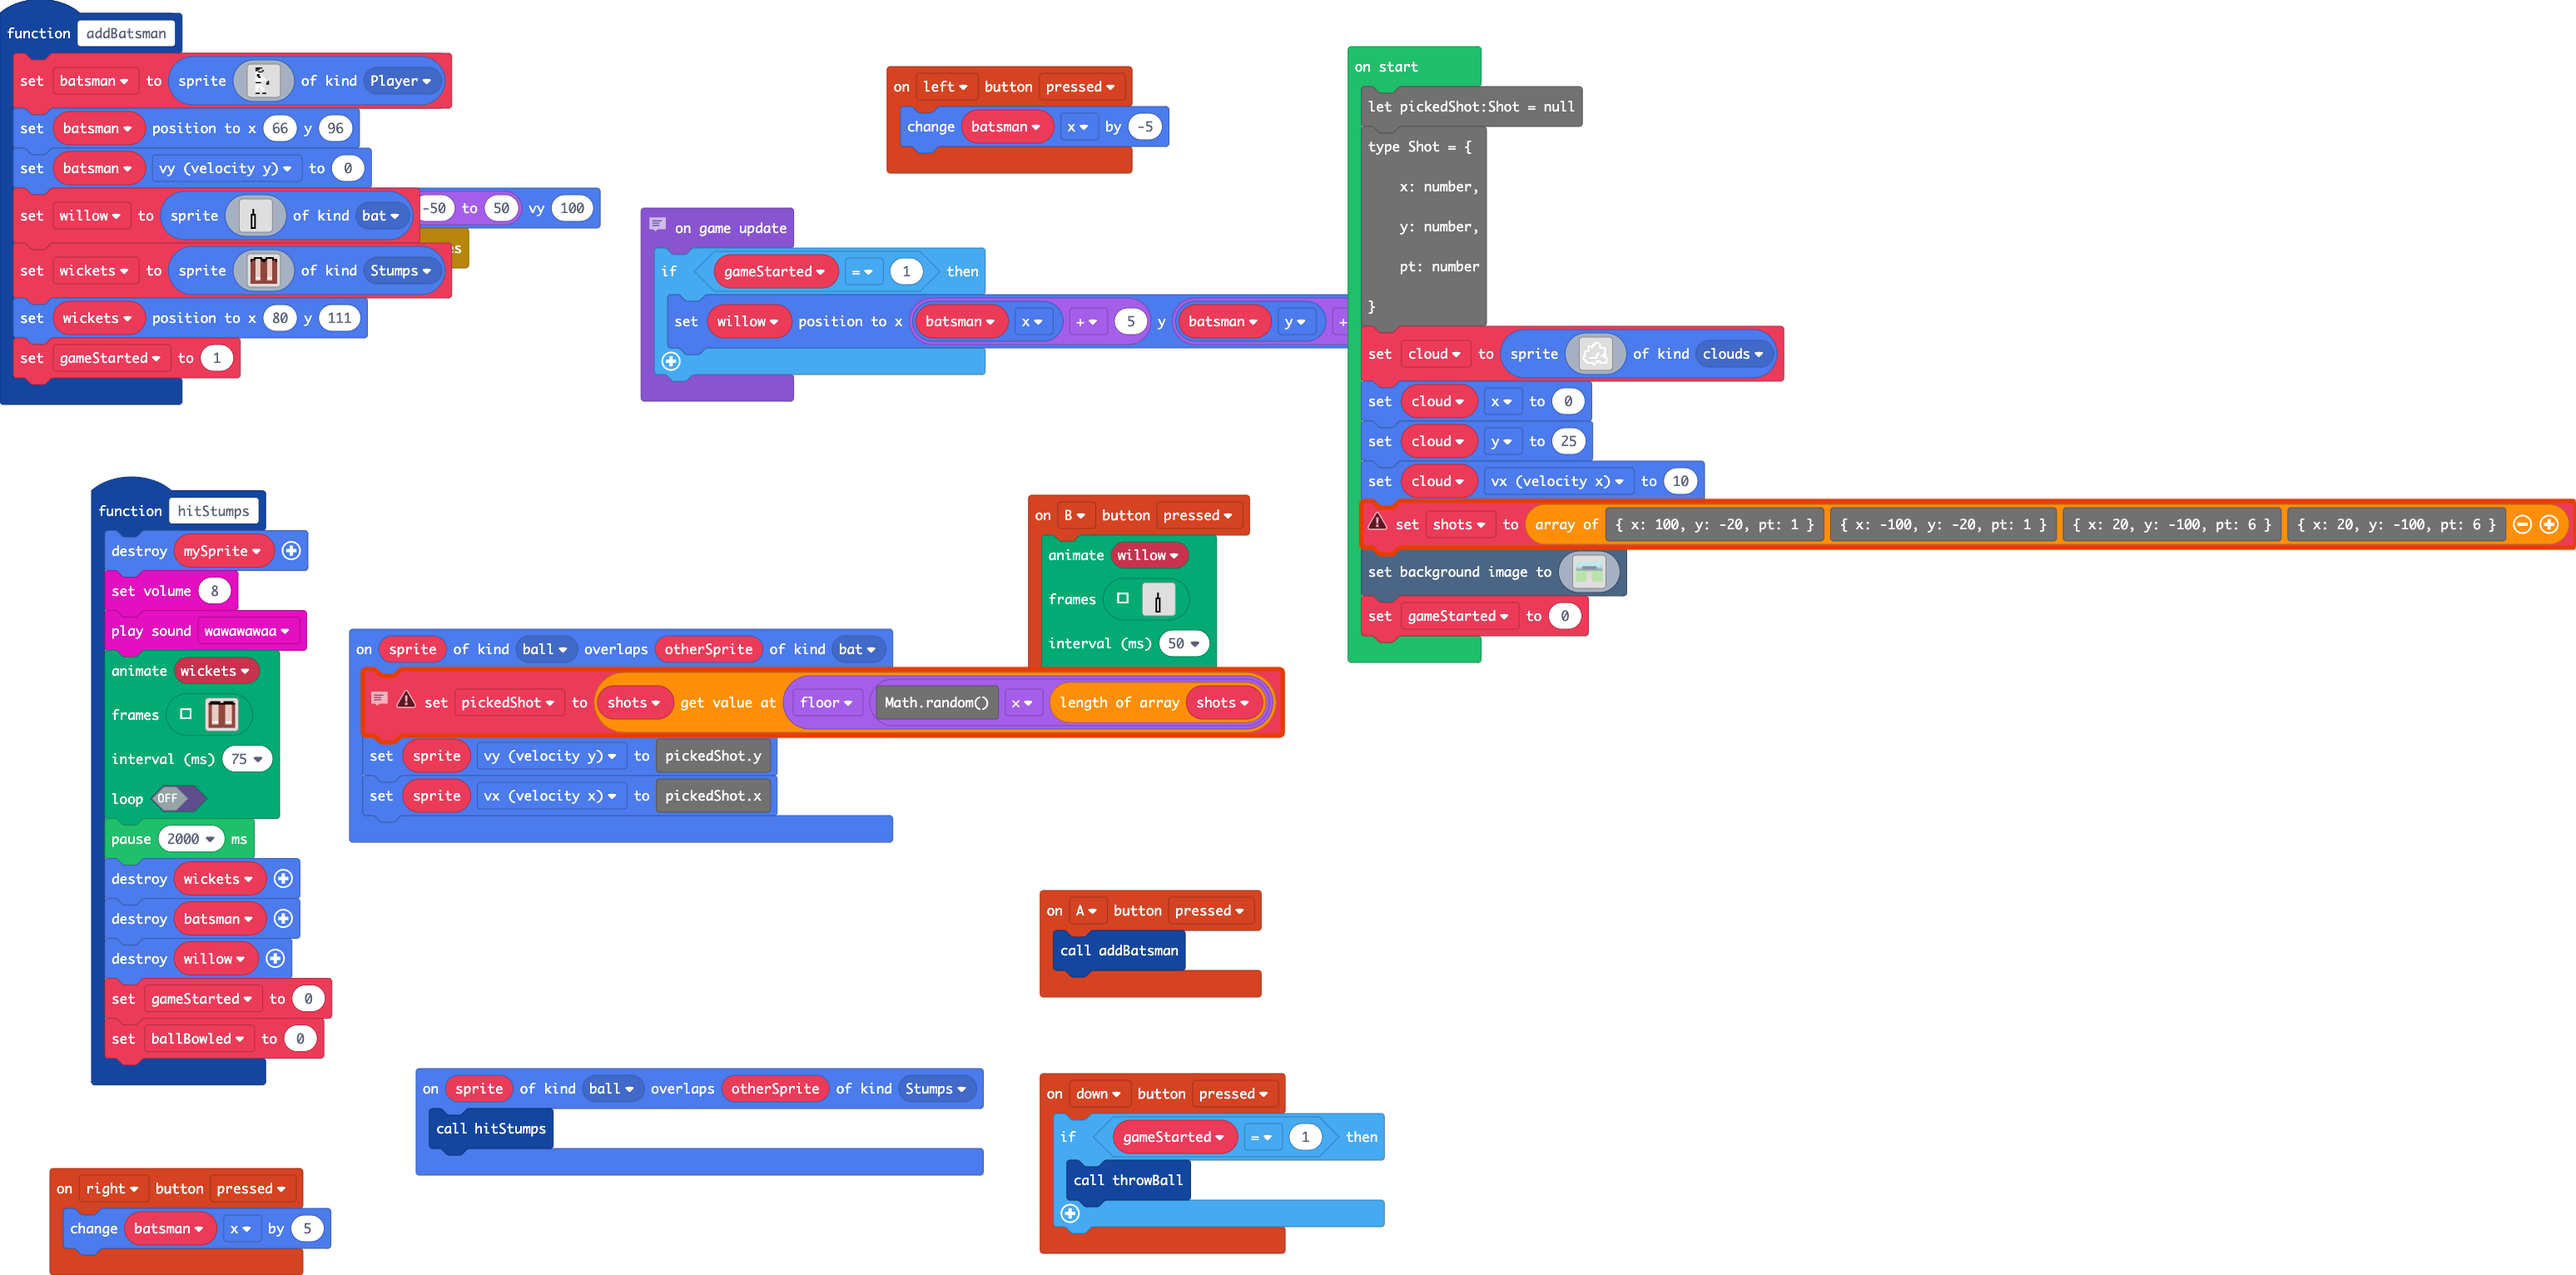
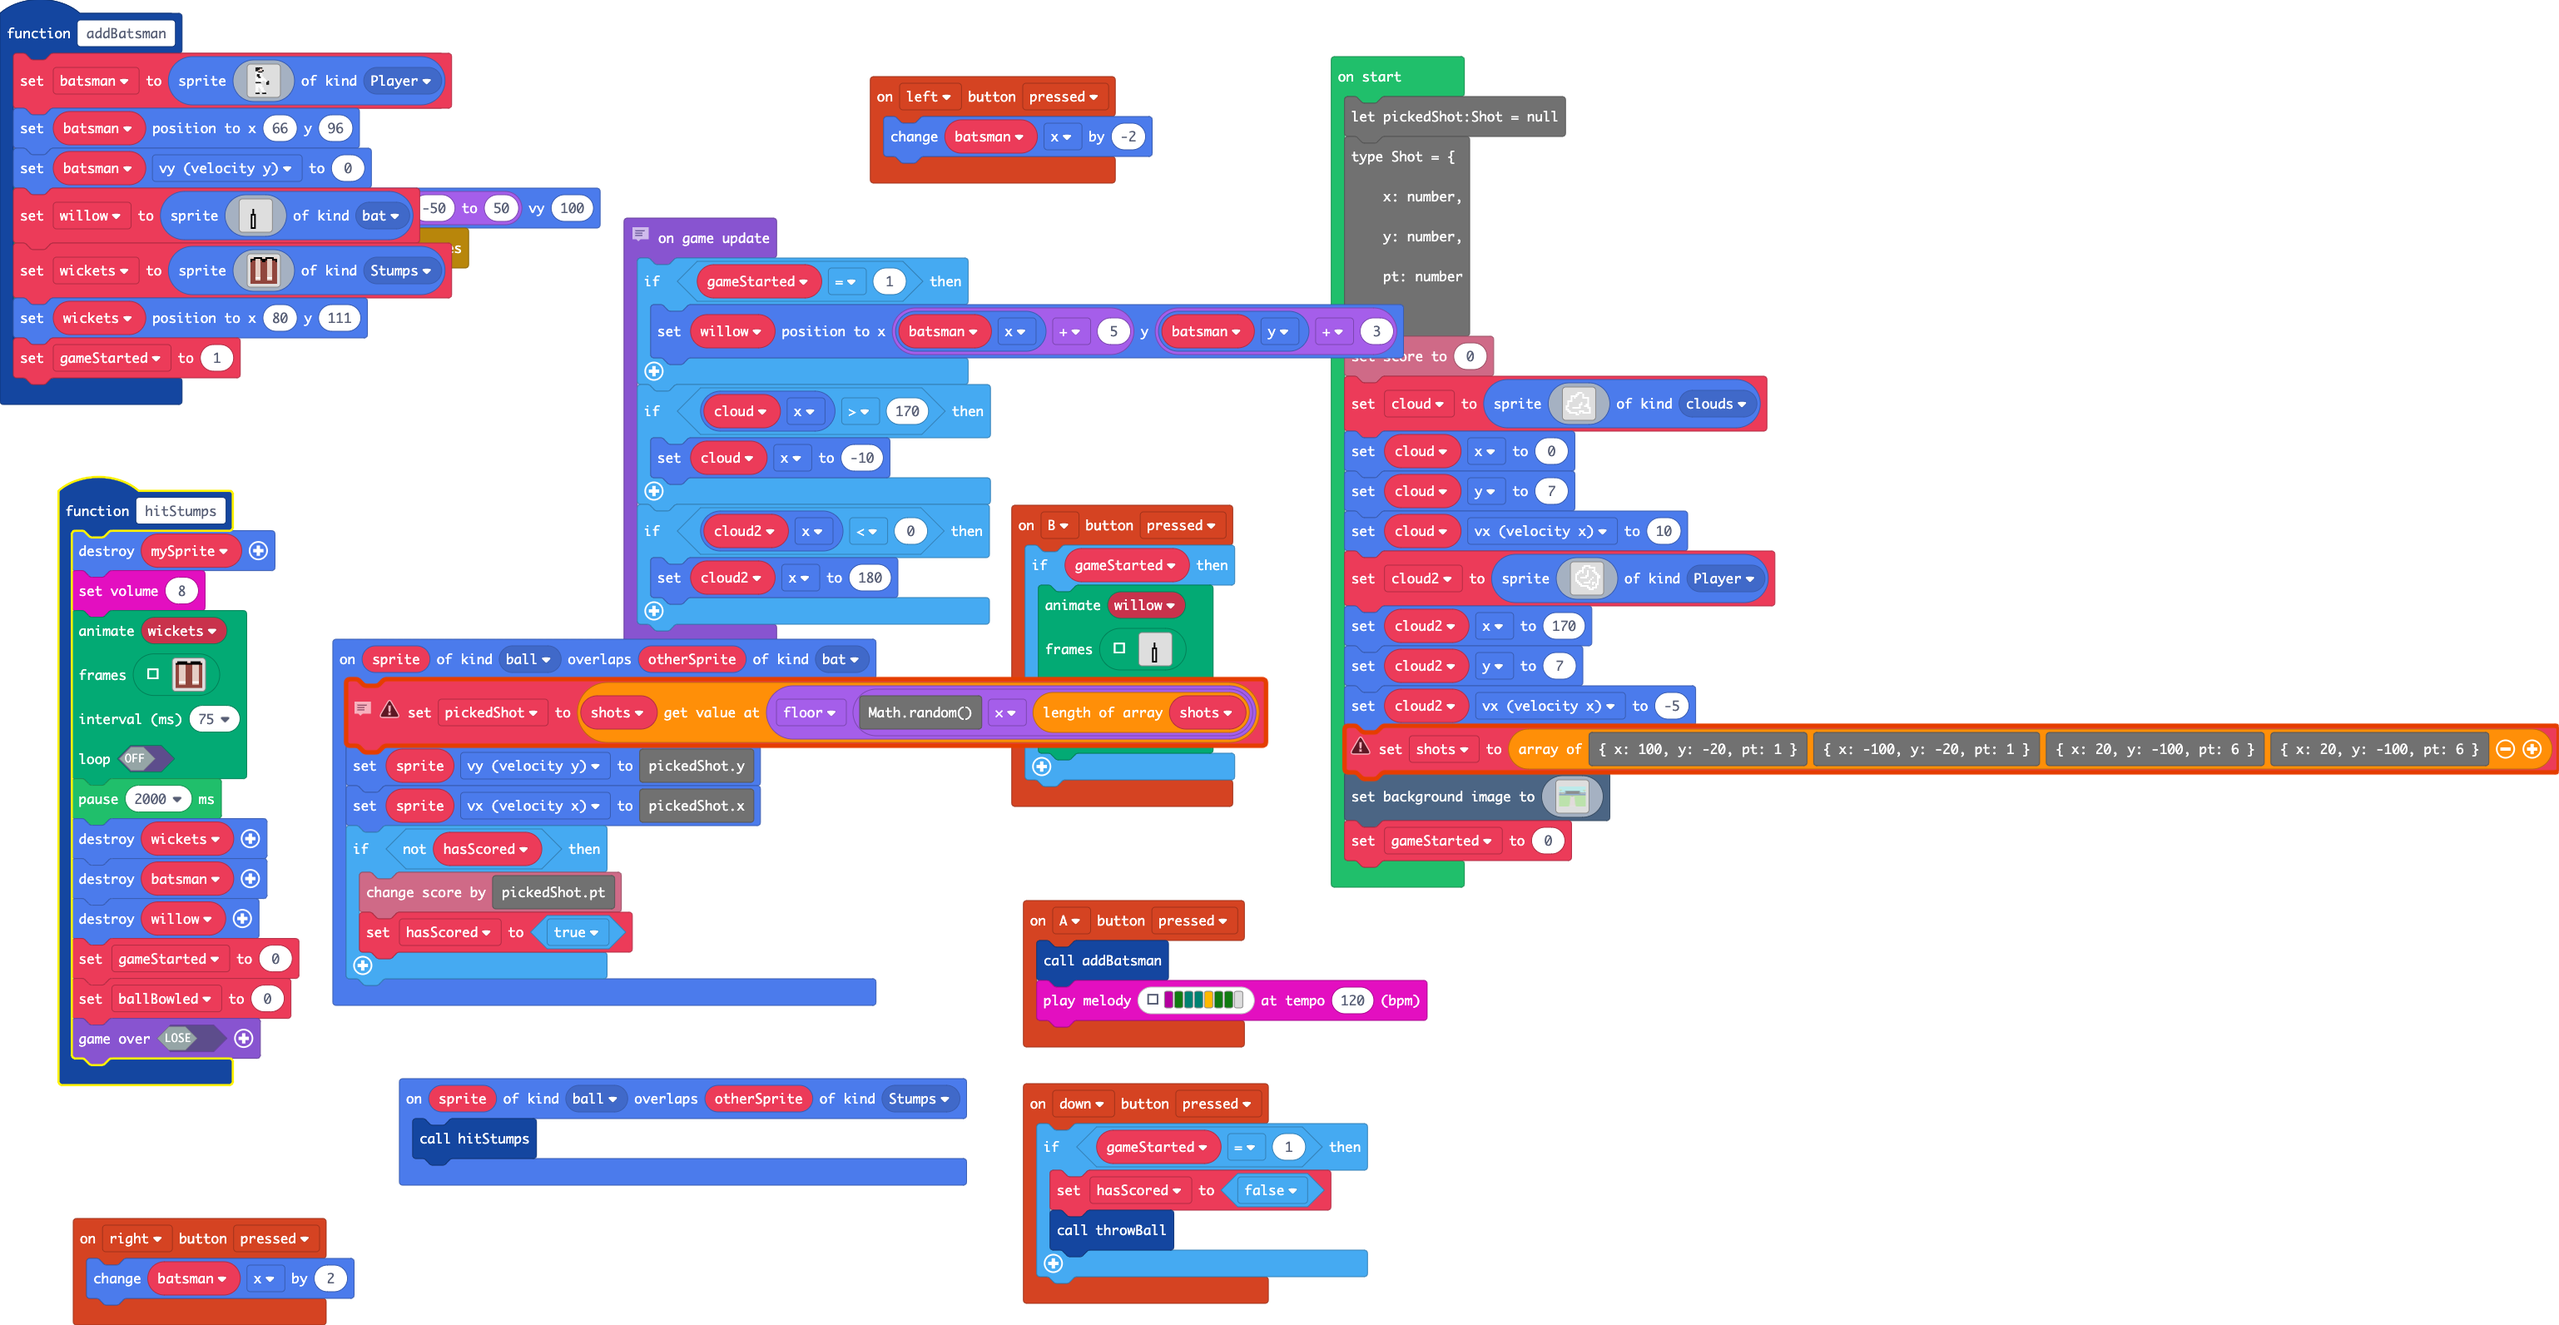
ver 1

diff --git a/main.ts b/main.ts
@@ -23,10 +23,11 @@ function throwBall () {
     }
 }
 controller.left.onEvent(ControllerButtonEvent.Pressed, function () {
-    batsman.x += -5
+    batsman.x += -2
 })
 controller.down.onEvent(ControllerButtonEvent.Pressed, function () {
     if (gameStarted == 1) {
+        hasScored = false
         throwBall()
     }
 })
@@ -38,116 +39,122 @@ sprites.onOverlap(SpriteKind.ball, SpriteKind.bat, function (sprite, otherSprite
     pickedShot = shots[Math.floor(Math.random() * shots.length)]
     sprite.vy = pickedShot.y
     sprite.vx = pickedShot.x
+    if (!(hasScored)) {
+        info.changeScoreBy(pickedShot.pt)
+        hasScored = true
+    }
 })
 controller.B.onEvent(ControllerButtonEvent.Pressed, function () {
-    animation.runImageAnimation(
-    willow,
-    [img`
-        . . . . . . . . . . . . . . . .
-        . . . . . . . . . . . . . . . .
-        . . . . . . . . . . . . . . . .
-        . . . . . . . . . . . . . . . .
-        . . . . . . . f . . . . . . . .
-        . . . . . . . f . . . . . . . .
-        . . . . . . . f . . . . . . . .
-        . . . . . . f f f . . . . . . .
-        . . . . . . f 1 f . . . . . . .
-        . . . . . . f 1 f . . . . . . .
-        . . . . . . f 1 f . . . . . . .
-        . . . . . . f 1 f . . . . . . .
-        . . . . . . f 1 f . . . . . . .
-        . . . . . . f 1 f . . . . . . .
-        . . . . . . f 1 f . . . . . . .
-        . . . . . . f f f . . . . . . .
+    if (gameStarted) {
+        animation.runImageAnimation(
+        willow,
+        [img`
+            . . . . . . . . . . . . . . . .
+            . . . . . . . . . . . . . . . .
+            . . . . . . . . . . . . . . . .
+            . . . . . . . . . . . . . . . .
+            . . . . . . . f . . . . . . . .
+            . . . . . . . f . . . . . . . .
+            . . . . . . . f . . . . . . . .
+            . . . . . . f f f . . . . . . .
+            . . . . . . f 1 f . . . . . . .
+            . . . . . . f 1 f . . . . . . .
+            . . . . . . f 1 f . . . . . . .
+            . . . . . . f 1 f . . . . . . .
+            . . . . . . f 1 f . . . . . . .
+            . . . . . . f 1 f . . . . . . .
+            . . . . . . f 1 f . . . . . . .
+            . . . . . . f f f . . . . . . .
   `,img`
-        . . . . . . . . . . . . . . . .
-        . . . . . . . . . . . . . . . .
-        . . . . . . . . . . . . . . . .
-        . . . . . . . . . . . . . . . .
-        . . . . . . . . . . . . . . . .
-        . . . . . f . . . . . . . . . .
-        . . . . . . f . . . . . . . . .
-        . . . . . . . f . f . . . . . .
-        . . . . . . . . f 1 f . . . . .
-        . . . . . . . f 1 1 1 f f . . .
-        . . . . . . . f 1 1 1 1 1 f . .
-        . . . . . . . . f 1 1 1 1 1 f .
-        . . . . . . . . . f 1 1 1 1 1 f
-        . . . . . . . . . . f 1 1 1 1 f
-        . . . . . . . . . . . f 1 1 f .
-        . . . . . . . . . . . . f f . .
+            . . . . . . . . . . . . . . . .
+            . . . . . . . . . . . . . . . .
+            . . . . . . . . . . . . . . . .
+            . . . . . . . . . . . . . . . .
+            . . . . . . . . . . . . . . . .
+            . . . . . f . . . . . . . . . .
+            . . . . . . f . . . . . . . . .
+            . . . . . . . f . f . . . . . .
+            . . . . . . . . f 1 f . . . . .
+            . . . . . . . f 1 1 1 f f . . .
+            . . . . . . . f 1 1 1 1 1 f . .
+            . . . . . . . . f 1 1 1 1 1 f .
+            . . . . . . . . . f 1 1 1 1 1 f
+            . . . . . . . . . . f 1 1 1 1 f
+            . . . . . . . . . . . f 1 1 f .
+            . . . . . . . . . . . . f f . .
   `,img`
-        . . . . . . . . . . . . . . . .
-        . . . . . . . . . . . . . . . .
-        . . . . . . . . . . . . . . . .
-        . . . . . . . . . . . . . . . .
-        . . . . . . . . . . . . . . . .
-        . . . . . . . . . . . . . . . .
-        . . . . . . . . . . . . . . . .
-        . . . . . . f f f f f f f f f f
-        . . f f f f f 1 1 1 1 1 1 1 1 f
-        . . . . . . f f f f f f f f f f
-        . . . . . . . . . . . . . . . .
-        . . . . . . . . . . . . . . . .
-        . . . . . . . . . . . . . . . .
-        . . . . . . . . . . . . . . . .
-        . . . . . . . . . . . . . . . .
-        . . . . . . . . . . . . . . . .
+            . . . . . . . . . . . . . . . .
+            . . . . . . . . . . . . . . . .
+            . . . . . . . . . . . . . . . .
+            . . . . . . . . . . . . . . . .
+            . . . . . . . . . . . . . . . .
+            . . . . . . . . . . . . . . . .
+            . . . . . . . . . . . . . . . .
+            . . . . . . f f f f f f f f f f
+            . . f f f f f 1 1 1 1 1 1 1 1 f
+            . . . . . . f f f f f f f f f f
+            . . . . . . . . . . . . . . . .
+            . . . . . . . . . . . . . . . .
+            . . . . . . . . . . . . . . . .
+            . . . . . . . . . . . . . . . .
+            . . . . . . . . . . . . . . . .
+            . . . . . . . . . . . . . . . .
   `,img`
-        . . . . . . . . f f f . . . . .
-        . . . . . . . f 1 1 1 f f f . .
-        . . . . . . . f 1 1 1 1 1 f . .
-        . . . . . . f 1 1 1 1 1 f . . .
-        . . . . . . f 1 1 1 1 f . . . .
-        . . . . . f 1 1 1 1 1 f . . . .
-        . . . . . f 1 1 1 1 f . . . . .
-        . . . . . f 1 1 1 f . . . . . .
-        . . . . . . f 1 1 f . . . . . .
-        . . . . . f . f f . . . . . . .
-        . . . . . f . . . . . . . . . .
-        . . . . f . . . . . . . . . . .
-        . . . f . . . . . . . . . . . .
-        . . . f . . . . . . . . . . . .
-        . . f . . . . . . . . . . . . .
-        . . . . . . . . . . . . . . . .
+            . . . . . . . . f f f . . . . .
+            . . . . . . . f 1 1 1 f f f . .
+            . . . . . . . f 1 1 1 1 1 f . .
+            . . . . . . f 1 1 1 1 1 f . . .
+            . . . . . . f 1 1 1 1 f . . . .
+            . . . . . f 1 1 1 1 1 f . . . .
+            . . . . . f 1 1 1 1 f . . . . .
+            . . . . . f 1 1 1 f . . . . . .
+            . . . . . . f 1 1 f . . . . . .
+            . . . . . f . f f . . . . . . .
+            . . . . . f . . . . . . . . . .
+            . . . . f . . . . . . . . . . .
+            . . . f . . . . . . . . . . . .
+            . . . f . . . . . . . . . . . .
+            . . f . . . . . . . . . . . . .
+            . . . . . . . . . . . . . . . .
   `,img`
-        . . . . . . . . . . . . . . . .
-        . . . f f f . . . . . . . . . .
-        . . . f 1 f . . . . . . . . . .
-        . . . f 1 f . . . . . . . . . .
-        . . . f 1 f . . . . . . . . . .
-        . . . f 1 f . . . . . . . . . .
-        . . . f 1 f . . . . . . . . . .
-        . . . f 1 f . . . . . . . . . .
-        . . . f 1 f . . . . . . . . . .
-        . . . f 1 f . . . . . . . . . .
-        . . . f f f . . . . . . . . . .
-        . . . . f . . . . . . . . . . .
-        . . . . f . . . . . . . . . . .
-        . . . . f . . . . . . . . . . .
-        . . . . f . . . . . . . . . . .
-        . . . . . . . . . . . . . . . .
+            . . . . . . . . . . . . . . . .
+            . . . f f f . . . . . . . . . .
+            . . . f 1 f . . . . . . . . . .
+            . . . f 1 f . . . . . . . . . .
+            . . . f 1 f . . . . . . . . . .
+            . . . f 1 f . . . . . . . . . .
+            . . . f 1 f . . . . . . . . . .
+            . . . f 1 f . . . . . . . . . .
+            . . . f 1 f . . . . . . . . . .
+            . . . f 1 f . . . . . . . . . .
+            . . . f f f . . . . . . . . . .
+            . . . . f . . . . . . . . . . .
+            . . . . f . . . . . . . . . . .
+            . . . . f . . . . . . . . . . .
+            . . . . f . . . . . . . . . . .
+            . . . . . . . . . . . . . . . .
   `,img`
-        . . . . . . . . . . . . . . . .
-        . . . . . . . . . . . . . . . .
-        . . . . . . . . . . . . . . . .
-        . . . . . . . . . . . . . . . .
-        . . . . . . . f . . . . . . . .
-        . . . . . . . f . . . . . . . .
-        . . . . . . . f . . . . . . . .
-        . . . . . . f f f . . . . . . .
-        . . . . . . f 1 f . . . . . . .
-        . . . . . . f 1 f . . . . . . .
-        . . . . . . f 1 f . . . . . . .
-        . . . . . . f 1 f . . . . . . .
-        . . . . . . f 1 f . . . . . . .
-        . . . . . . f 1 f . . . . . . .
-        . . . . . . f 1 f . . . . . . .
-        . . . . . . f f f . . . . . . .
-    `],
-    50,
-    false
-    )
+            . . . . . . . . . . . . . . . .
+            . . . . . . . . . . . . . . . .
+            . . . . . . . . . . . . . . . .
+            . . . . . . . . . . . . . . . .
+            . . . . . . . f . . . . . . . .
+            . . . . . . . f . . . . . . . .
+            . . . . . . . f . . . . . . . .
+            . . . . . . f f f . . . . . . .
+            . . . . . . f 1 f . . . . . . .
+            . . . . . . f 1 f . . . . . . .
+            . . . . . . f 1 f . . . . . . .
+            . . . . . . f 1 f . . . . . . .
+            . . . . . . f 1 f . . . . . . .
+            . . . . . . f 1 f . . . . . . .
+            . . . . . . f 1 f . . . . . . .
+            . . . . . . f f f . . . . . . .
+        `],
+        50,
+        false
+        )
+    }
 })
 function addBatsman () {
     batsman = sprites.create(img`
@@ -216,7 +223,6 @@ function addBatsman () {
 function hitStumps () {
     mySprite.destroy()
     music.setVolume(8)
-    music.wawawawaa.play()
     animation.runImageAnimation(
     wickets,
     [img`
@@ -314,26 +320,33 @@ function hitStumps () {
     willow.destroy()
     gameStarted = 0
     ballBowled = 0
+    game.over(false)
 }
 controller.A.onEvent(ControllerButtonEvent.Pressed, function () {
     addBatsman()
 })
 controller.right.onEvent(ControllerButtonEvent.Pressed, function () {
-    batsman.x += 5
+    batsman.x += 2
 })
 let wickets: Sprite = null
 let willow: Sprite = null
+let hasScored = false
 let batsman: Sprite = null
 let ballBowled = 0
 let mySprite: Sprite = null
 let gameStarted = 0
 
-let pickedShot:Shot = null
-type Shot = {
+declare type Shot = {
     x: number,
     y: number,
     pt: number
 }
+
+let shots: Shot[] = []
+let pickedShot: Shot = null
+
+
+info.setScore(0)
 let cloud = sprites.create(img`
     . . . . . . . . . . . . . . . .
     . . . . . . . 1 1 1 . . . . . .
@@ -355,7 +368,28 @@ let cloud = sprites.create(img`
 cloud.x = 0
 cloud.y = 7
 cloud.vx = 10
-const shots:Shot[] = [{ x: 100, y: -20, pt: 1 }, { x: -100, y: -20, pt: 1 }, { x: 20, y: -100, pt: 6 }, { x: 20, y: -100, pt: 6 }]
+let cloud2 = sprites.create(img`
+    . . . . . . 1 1 1 1 . . . . . .
+    . . . . . 1 1 . . 1 1 1 1 . . .
+    . . . . . 1 . . . . . . 1 . . .
+    . . . 1 1 1 . . 1 . . 1 1 . . .
+    . . 1 1 . 1 . . 1 . . . 1 1 . .
+    . 1 1 . . . . . 1 . . . . 1 1 .
+    . 1 . . . . . 1 1 . . . . . 1 1
+    . 1 . . 1 1 1 1 . . . 1 . . 1 1
+    . 1 . . . . . . . . 1 . . . 1 .
+    . 1 1 . . . . . . 1 . . . . 1 .
+    . . 1 1 . . 1 1 1 1 . 1 1 . 1 .
+    . . . 1 1 . . . . . . 1 . 1 1 .
+    . . . . 1 1 1 1 1 . . . . 1 . .
+    . . . . . . . . 1 1 . 1 1 1 . .
+    . . . . . . . . . 1 1 1 . . . .
+    . . . . . . . . . . . . . . . .
+`, SpriteKind.Player)
+cloud2.x = 170
+cloud2.y = 7
+cloud2.vx = -5
+shots = [{ x: 100, y: -20, pt: 1 }, { x: -100, y: -20, pt: 1 }, { x: 20, y: -100, pt: 6 }, { x: 20, y: -100, pt: 6 }]
 scene.setBackgroundImage(img`
     9 9 9 9 9 9 9 9 9 9 9 9 9 9 9 9 9 9 9 9 9 9 9 9 9 9 9 9 9 9 9 9 9 9 9 9 9 9 9 9 9 9 9 9 9 9 9 9 9 9 9 9 9 9 9 9 9 9 9 9 9 9 9 9 9 9 9 9 9 9 9 9 9 9 9 9 9 9 9 9 9 9 9 9 9 9 9 9 9 9 9 9 9 9 9 9 9 9 9 9 9 9 9 9 9 9 9 9 9 9 9 9 9 9 9 9 9 9 9 9 9 9 9 9 9 9 9 9 9 9 9 9 9 9 9 9 9 9 9 9 9 9 9 9 9 9 9 9 9 9 9 9 9 9 9 9 9 9 9 9
     9 9 9 9 9 9 9 9 9 9 9 9 9 9 9 9 9 9 9 9 9 9 9 9 9 9 9 9 9 9 9 9 9 9 9 9 9 9 9 9 9 9 9 9 9 9 9 9 9 9 9 9 9 9 9 9 9 9 9 9 9 9 9 9 9 9 9 9 9 9 9 9 9 9 9 9 9 9 9 9 9 9 9 9 9 9 9 9 9 9 9 9 9 9 9 9 9 9 9 9 9 9 9 9 9 9 9 9 9 9 9 9 9 9 9 9 9 9 9 9 9 9 9 9 9 9 9 9 9 9 9 9 9 9 9 9 9 9 9 9 9 9 9 9 9 9 9 9 9 9 9 9 9 9 9 9 9 9 9 9
@@ -484,7 +518,10 @@ game.onUpdate(function () {
     if (gameStarted == 1) {
         willow.setPosition(batsman.x + 5, batsman.y + 3)
     }
-    if(cloud.x > 170){
+    if (cloud.x > 170) {
         cloud.x = -10
+    }
+    if (cloud2.x < 0) {
+        cloud2.x = 180
     }
 })
